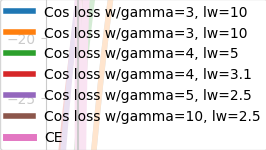
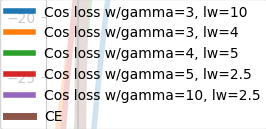
configs updated

diff --git a/configs/lrp_optimization/SmoothL1CosLoss/3_lw_gamma_mixed/faster_rcnn_r50_fpn_1x_SmoothL1_CosLoss_lw25_gamma10.py b/configs/lrp_optimization/SmoothL1CosLoss/3_lw_gamma_mixed/faster_rcnn_r50_fpn_1x_SmoothL1_CosLoss_lw25_gamma10.py
@@ -1,0 +1,175 @@
+# model settings
+model = dict(
+    type='FasterRCNN',
+    pretrained='torchvision://resnet50',
+    backbone=dict(
+        type='ResNet',
+        depth=50,
+        num_stages=4,
+        out_indices=(0, 1, 2, 3),
+        frozen_stages=1,
+        style='pytorch'),
+    neck=dict(
+        type='FPN',
+        in_channels=[256, 512, 1024, 2048],
+        out_channels=256,
+        num_outs=5),
+    rpn_head=dict(
+        type='RPNHead',
+        in_channels=256,
+        feat_channels=256,
+        anchor_scales=[8],
+        anchor_ratios=[0.5, 1.0, 2.0],
+        anchor_strides=[4, 8, 16, 32, 64],
+        target_means=[.0, .0, .0, .0],
+        target_stds=[1.0, 1.0, 1.0, 1.0],
+        loss_cls=dict(
+            type='CrossEntropyLoss', use_sigmoid=True, loss_weight=1.0),
+        loss_bbox=dict(type='SmoothL1Loss', beta= 1.0/9.0, loss_weight=1.0)),
+    bbox_roi_extractor=dict(
+        type='SingleRoIExtractor',
+        roi_layer=dict(type='RoIAlign', out_size=7, sample_num=2),
+        out_channels=256,
+        featmap_strides=[4, 8, 16, 32]),
+    bbox_head=dict(
+        type='SharedFCBBoxHead',
+        num_fcs=2,
+        in_channels=256,
+        fc_out_channels=1024,
+        roi_feat_size=7,
+        num_classes=81,
+        target_means=[0., 0., 0., 0.],
+        target_stds=[0.1, 0.1, 0.2, 0.2],
+        reg_class_agnostic=False,
+        loss_cls=dict(
+           type='LRPLoss', use_sigmoid=False, loss_weight=2.5, \
+                  use_modulator = True, gamma = 10.0),
+        loss_bbox=dict(type='SmoothL1Loss', beta=1.0, loss_weight=1.0)))
+# model training and testing settings
+train_cfg = dict(
+    rpn=dict(
+        assigner=dict(
+            type='MaxIoUAssigner',
+            pos_iou_thr=0.7,
+            neg_iou_thr=0.3,
+            min_pos_iou=0.3,
+            ignore_iof_thr=-1),
+        sampler=dict(
+            type='RandomSampler',
+            num=512,
+            pos_fraction=0.25,
+            neg_pos_ub=-1,
+            add_gt_as_proposals=False),
+        allowed_border=0,
+        pos_weight=-1,
+        debug=False),
+    rpn_proposal=dict(
+        nms_across_levels=False,
+        nms_pre=2000,
+        nms_post=2000,
+        max_num=2000,
+        nms_thr=0.7,
+        min_bbox_size=0),
+    rcnn=dict(
+        assigner=dict(
+            type='MaxIoUAssigner',
+            pos_iou_thr=0.5,
+            neg_iou_thr=0.5,
+            min_pos_iou=0.5,
+            ignore_iof_thr=-1),
+        sampler=dict(
+            type='RandomSampler',
+            num=512,
+            pos_fraction=0.25,
+            neg_pos_ub=-1,
+            add_gt_as_proposals=True),
+        pos_weight=-1,
+        debug=False))
+test_cfg = dict(
+    rpn=dict(
+        nms_across_levels=False,
+        nms_pre=1000,
+        nms_post=1000,
+        max_num=1000,
+        nms_thr=0.7,
+        min_bbox_size=0),
+    rcnn=dict(
+        score_thr=0.05, nms=dict(type='nms', iou_thr=0.5), max_per_img=100)
+    # soft-nms is also supported for rcnn testing
+    # e.g., nms=dict(type='soft_nms', iou_thr=0.5, min_score=0.05)
+)
+# dataset settings
+dataset_type = 'CocoDataset'
+data_root = 'data/coco/'
+img_norm_cfg = dict(
+    mean=[123.675, 116.28, 103.53], std=[58.395, 57.12, 57.375], to_rgb=True)
+train_pipeline = [
+    dict(type='LoadImageFromFile'),
+    dict(type='LoadAnnotations', with_bbox=True),
+    dict(type='Resize', img_scale=(1333, 800), keep_ratio=True),
+    dict(type='RandomFlip', flip_ratio=0.5),
+    dict(type='Normalize', **img_norm_cfg),
+    dict(type='Pad', size_divisor=32),
+    dict(type='DefaultFormatBundle'),
+    dict(type='Collect', keys=['img', 'gt_bboxes', 'gt_labels']),
+]
+test_pipeline = [
+    dict(type='LoadImageFromFile'),
+    dict(
+        type='MultiScaleFlipAug',
+        img_scale=(1333, 800),
+        flip=False,
+        transforms=[
+            dict(type='Resize', keep_ratio=True),
+            dict(type='RandomFlip'),
+            dict(type='Normalize', **img_norm_cfg),
+            dict(type='Pad', size_divisor=32),
+            dict(type='ImageToTensor', keys=['img']),
+            dict(type='Collect', keys=['img']),
+        ])
+]
+data = dict(
+    imgs_per_gpu=2,
+    workers_per_gpu=2,
+    train=dict(
+        type=dataset_type,
+        ann_file=data_root + 'annotations/instances_train2017_minicoco.json',
+        img_prefix=data_root + 'train2017/',
+        pipeline=train_pipeline),
+    val=dict(
+        type=dataset_type,
+        ann_file=data_root + 'annotations/instances_val2017.json',
+        img_prefix=data_root + 'val2017/',
+        pipeline=test_pipeline),
+    test=dict(
+        type=dataset_type,
+        ann_file=data_root + 'annotations/instances_val2017.json',
+        img_prefix=data_root + 'val2017/',
+        pipeline=test_pipeline))
+# optimizer
+optimizer = dict(type='SGD', lr=0.005, momentum=0.9, weight_decay=0.0001)
+optimizer_config = dict(grad_clip=dict(max_norm=35, norm_type=2))
+# learning policy
+lr_config = dict(
+    policy='step',
+    warmup='linear',
+    warmup_iters=500,
+    warmup_ratio=1.0 / 3,
+    step=[8, 11])
+checkpoint_config = dict(interval=1)
+# yapf:disable
+log_config = dict(
+    interval=50,
+    hooks=[
+        dict(type='TextLoggerHook'),
+        dict(type='TensorboardLoggerHook')
+    ])
+# yapf:enable
+# runtime settings
+total_epochs = 12
+dist_params = dict(backend='nccl')
+log_level = 'INFO'
+work_dir = './work_dirs/lrp_optimization/faster_rcnn_r50_fpn_1x_SmoothL1_CosLoss_lw25_gamma10'
+load_from = None
+resume_from = None
+workflow = [('train', 1)]

diff --git a/configs/lrp_optimization/SmoothL1CosLoss/3_lw_gamma_mixed/faster_rcnn_r50_fpn_1x_SmoothL1_CosLoss_lw25_gamma5.py b/configs/lrp_optimization/SmoothL1CosLoss/3_lw_gamma_mixed/faster_rcnn_r50_fpn_1x_SmoothL1_CosLoss_lw25_gamma5.py
@@ -1,0 +1,175 @@
+# model settings
+model = dict(
+    type='FasterRCNN',
+    pretrained='torchvision://resnet50',
+    backbone=dict(
+        type='ResNet',
+        depth=50,
+        num_stages=4,
+        out_indices=(0, 1, 2, 3),
+        frozen_stages=1,
+        style='pytorch'),
+    neck=dict(
+        type='FPN',
+        in_channels=[256, 512, 1024, 2048],
+        out_channels=256,
+        num_outs=5),
+    rpn_head=dict(
+        type='RPNHead',
+        in_channels=256,
+        feat_channels=256,
+        anchor_scales=[8],
+        anchor_ratios=[0.5, 1.0, 2.0],
+        anchor_strides=[4, 8, 16, 32, 64],
+        target_means=[.0, .0, .0, .0],
+        target_stds=[1.0, 1.0, 1.0, 1.0],
+        loss_cls=dict(
+            type='CrossEntropyLoss', use_sigmoid=True, loss_weight=1.0),
+        loss_bbox=dict(type='SmoothL1Loss', beta= 1.0/9.0, loss_weight=1.0)),
+    bbox_roi_extractor=dict(
+        type='SingleRoIExtractor',
+        roi_layer=dict(type='RoIAlign', out_size=7, sample_num=2),
+        out_channels=256,
+        featmap_strides=[4, 8, 16, 32]),
+    bbox_head=dict(
+        type='SharedFCBBoxHead',
+        num_fcs=2,
+        in_channels=256,
+        fc_out_channels=1024,
+        roi_feat_size=7,
+        num_classes=81,
+        target_means=[0., 0., 0., 0.],
+        target_stds=[0.1, 0.1, 0.2, 0.2],
+        reg_class_agnostic=False,
+        loss_cls=dict(
+           type='LRPLoss', use_sigmoid=False, loss_weight=2.5, \
+                  use_modulator = True, gamma = 5.0),
+        loss_bbox=dict(type='SmoothL1Loss', beta=1.0, loss_weight=1.0)))
+# model training and testing settings
+train_cfg = dict(
+    rpn=dict(
+        assigner=dict(
+            type='MaxIoUAssigner',
+            pos_iou_thr=0.7,
+            neg_iou_thr=0.3,
+            min_pos_iou=0.3,
+            ignore_iof_thr=-1),
+        sampler=dict(
+            type='RandomSampler',
+            num=512,
+            pos_fraction=0.25,
+            neg_pos_ub=-1,
+            add_gt_as_proposals=False),
+        allowed_border=0,
+        pos_weight=-1,
+        debug=False),
+    rpn_proposal=dict(
+        nms_across_levels=False,
+        nms_pre=2000,
+        nms_post=2000,
+        max_num=2000,
+        nms_thr=0.7,
+        min_bbox_size=0),
+    rcnn=dict(
+        assigner=dict(
+            type='MaxIoUAssigner',
+            pos_iou_thr=0.5,
+            neg_iou_thr=0.5,
+            min_pos_iou=0.5,
+            ignore_iof_thr=-1),
+        sampler=dict(
+            type='RandomSampler',
+            num=512,
+            pos_fraction=0.25,
+            neg_pos_ub=-1,
+            add_gt_as_proposals=True),
+        pos_weight=-1,
+        debug=False))
+test_cfg = dict(
+    rpn=dict(
+        nms_across_levels=False,
+        nms_pre=1000,
+        nms_post=1000,
+        max_num=1000,
+        nms_thr=0.7,
+        min_bbox_size=0),
+    rcnn=dict(
+        score_thr=0.05, nms=dict(type='nms', iou_thr=0.5), max_per_img=100)
+    # soft-nms is also supported for rcnn testing
+    # e.g., nms=dict(type='soft_nms', iou_thr=0.5, min_score=0.05)
+)
+# dataset settings
+dataset_type = 'CocoDataset'
+data_root = 'data/coco/'
+img_norm_cfg = dict(
+    mean=[123.675, 116.28, 103.53], std=[58.395, 57.12, 57.375], to_rgb=True)
+train_pipeline = [
+    dict(type='LoadImageFromFile'),
+    dict(type='LoadAnnotations', with_bbox=True),
+    dict(type='Resize', img_scale=(1333, 800), keep_ratio=True),
+    dict(type='RandomFlip', flip_ratio=0.5),
+    dict(type='Normalize', **img_norm_cfg),
+    dict(type='Pad', size_divisor=32),
+    dict(type='DefaultFormatBundle'),
+    dict(type='Collect', keys=['img', 'gt_bboxes', 'gt_labels']),
+]
+test_pipeline = [
+    dict(type='LoadImageFromFile'),
+    dict(
+        type='MultiScaleFlipAug',
+        img_scale=(1333, 800),
+        flip=False,
+        transforms=[
+            dict(type='Resize', keep_ratio=True),
+            dict(type='RandomFlip'),
+            dict(type='Normalize', **img_norm_cfg),
+            dict(type='Pad', size_divisor=32),
+            dict(type='ImageToTensor', keys=['img']),
+            dict(type='Collect', keys=['img']),
+        ])
+]
+data = dict(
+    imgs_per_gpu=2,
+    workers_per_gpu=2,
+    train=dict(
+        type=dataset_type,
+        ann_file=data_root + 'annotations/instances_train2017_minicoco.json',
+        img_prefix=data_root + 'train2017/',
+        pipeline=train_pipeline),
+    val=dict(
+        type=dataset_type,
+        ann_file=data_root + 'annotations/instances_val2017.json',
+        img_prefix=data_root + 'val2017/',
+        pipeline=test_pipeline),
+    test=dict(
+        type=dataset_type,
+        ann_file=data_root + 'annotations/instances_val2017.json',
+        img_prefix=data_root + 'val2017/',
+        pipeline=test_pipeline))
+# optimizer
+optimizer = dict(type='SGD', lr=0.005, momentum=0.9, weight_decay=0.0001)
+optimizer_config = dict(grad_clip=dict(max_norm=35, norm_type=2))
+# learning policy
+lr_config = dict(
+    policy='step',
+    warmup='linear',
+    warmup_iters=500,
+    warmup_ratio=1.0 / 3,
+    step=[8, 11])
+checkpoint_config = dict(interval=1)
+# yapf:disable
+log_config = dict(
+    interval=50,
+    hooks=[
+        dict(type='TextLoggerHook'),
+        dict(type='TensorboardLoggerHook')
+    ])
+# yapf:enable
+# runtime settings
+total_epochs = 12
+dist_params = dict(backend='nccl')
+log_level = 'INFO'
+work_dir = './work_dirs/lrp_optimization/faster_rcnn_r50_fpn_1x_SmoothL1_CosLoss_lw25_gamma5'
+load_from = None
+resume_from = None
+workflow = [('train', 1)]

diff --git a/configs/lrp_optimization/SmoothL1CosLoss/3_lw_gamma_mixed/faster_rcnn_r50_fpn_1x_SmoothL1_CosLoss_lw4_gamma3.py b/configs/lrp_optimization/SmoothL1CosLoss/3_lw_gamma_mixed/faster_rcnn_r50_fpn_1x_SmoothL1_CosLoss_lw4_gamma3.py
@@ -42,8 +42,8 @@ model = dict(
         target_stds=[0.1, 0.1, 0.2, 0.2],
         reg_class_agnostic=False,
         loss_cls=dict(
-           type='LRPLoss', use_sigmoid=False, loss_weight=3.1, \
-                  use_modulator = True, gamma = 4.0),
+           type='LRPLoss', use_sigmoid=False, loss_weight=4.0, \
+                  use_modulator = True, gamma = 3.0),
         loss_bbox=dict(type='SmoothL1Loss', beta=1.0, loss_weight=1.0)))
 # model training and testing settings
 train_cfg = dict(
@@ -169,7 +169,7 @@ log_config = dict(
 total_epochs = 12
 dist_params = dict(backend='nccl')
 log_level = 'INFO'
-work_dir = './work_dirs/lrp_optimization/faster_rcnn_r50_fpn_1x_SmoothL1_CosLoss_lw31_gamma4'
+work_dir = './work_dirs/lrp_optimization/faster_rcnn_r50_fpn_1x_SmoothL1_CosLoss_lw4_gamma3'
 load_from = None
 resume_from = None
 workflow = [('train', 1)]

diff --git a/plots/try_cosine.py b/plots/try_cosine.py
@@ -31,8 +31,8 @@ if __name__ == '__main__':
             gamma_lw.append(param_sub)
     else:    
         gamma_lw = [[3, 10], \
-        [3, 10], \
-        [4, 5], [4, 3.1], \
+        [3, 4], \
+        [4, 5],  \
         [5, 2.5], \
         [10, 2.5]]
     
